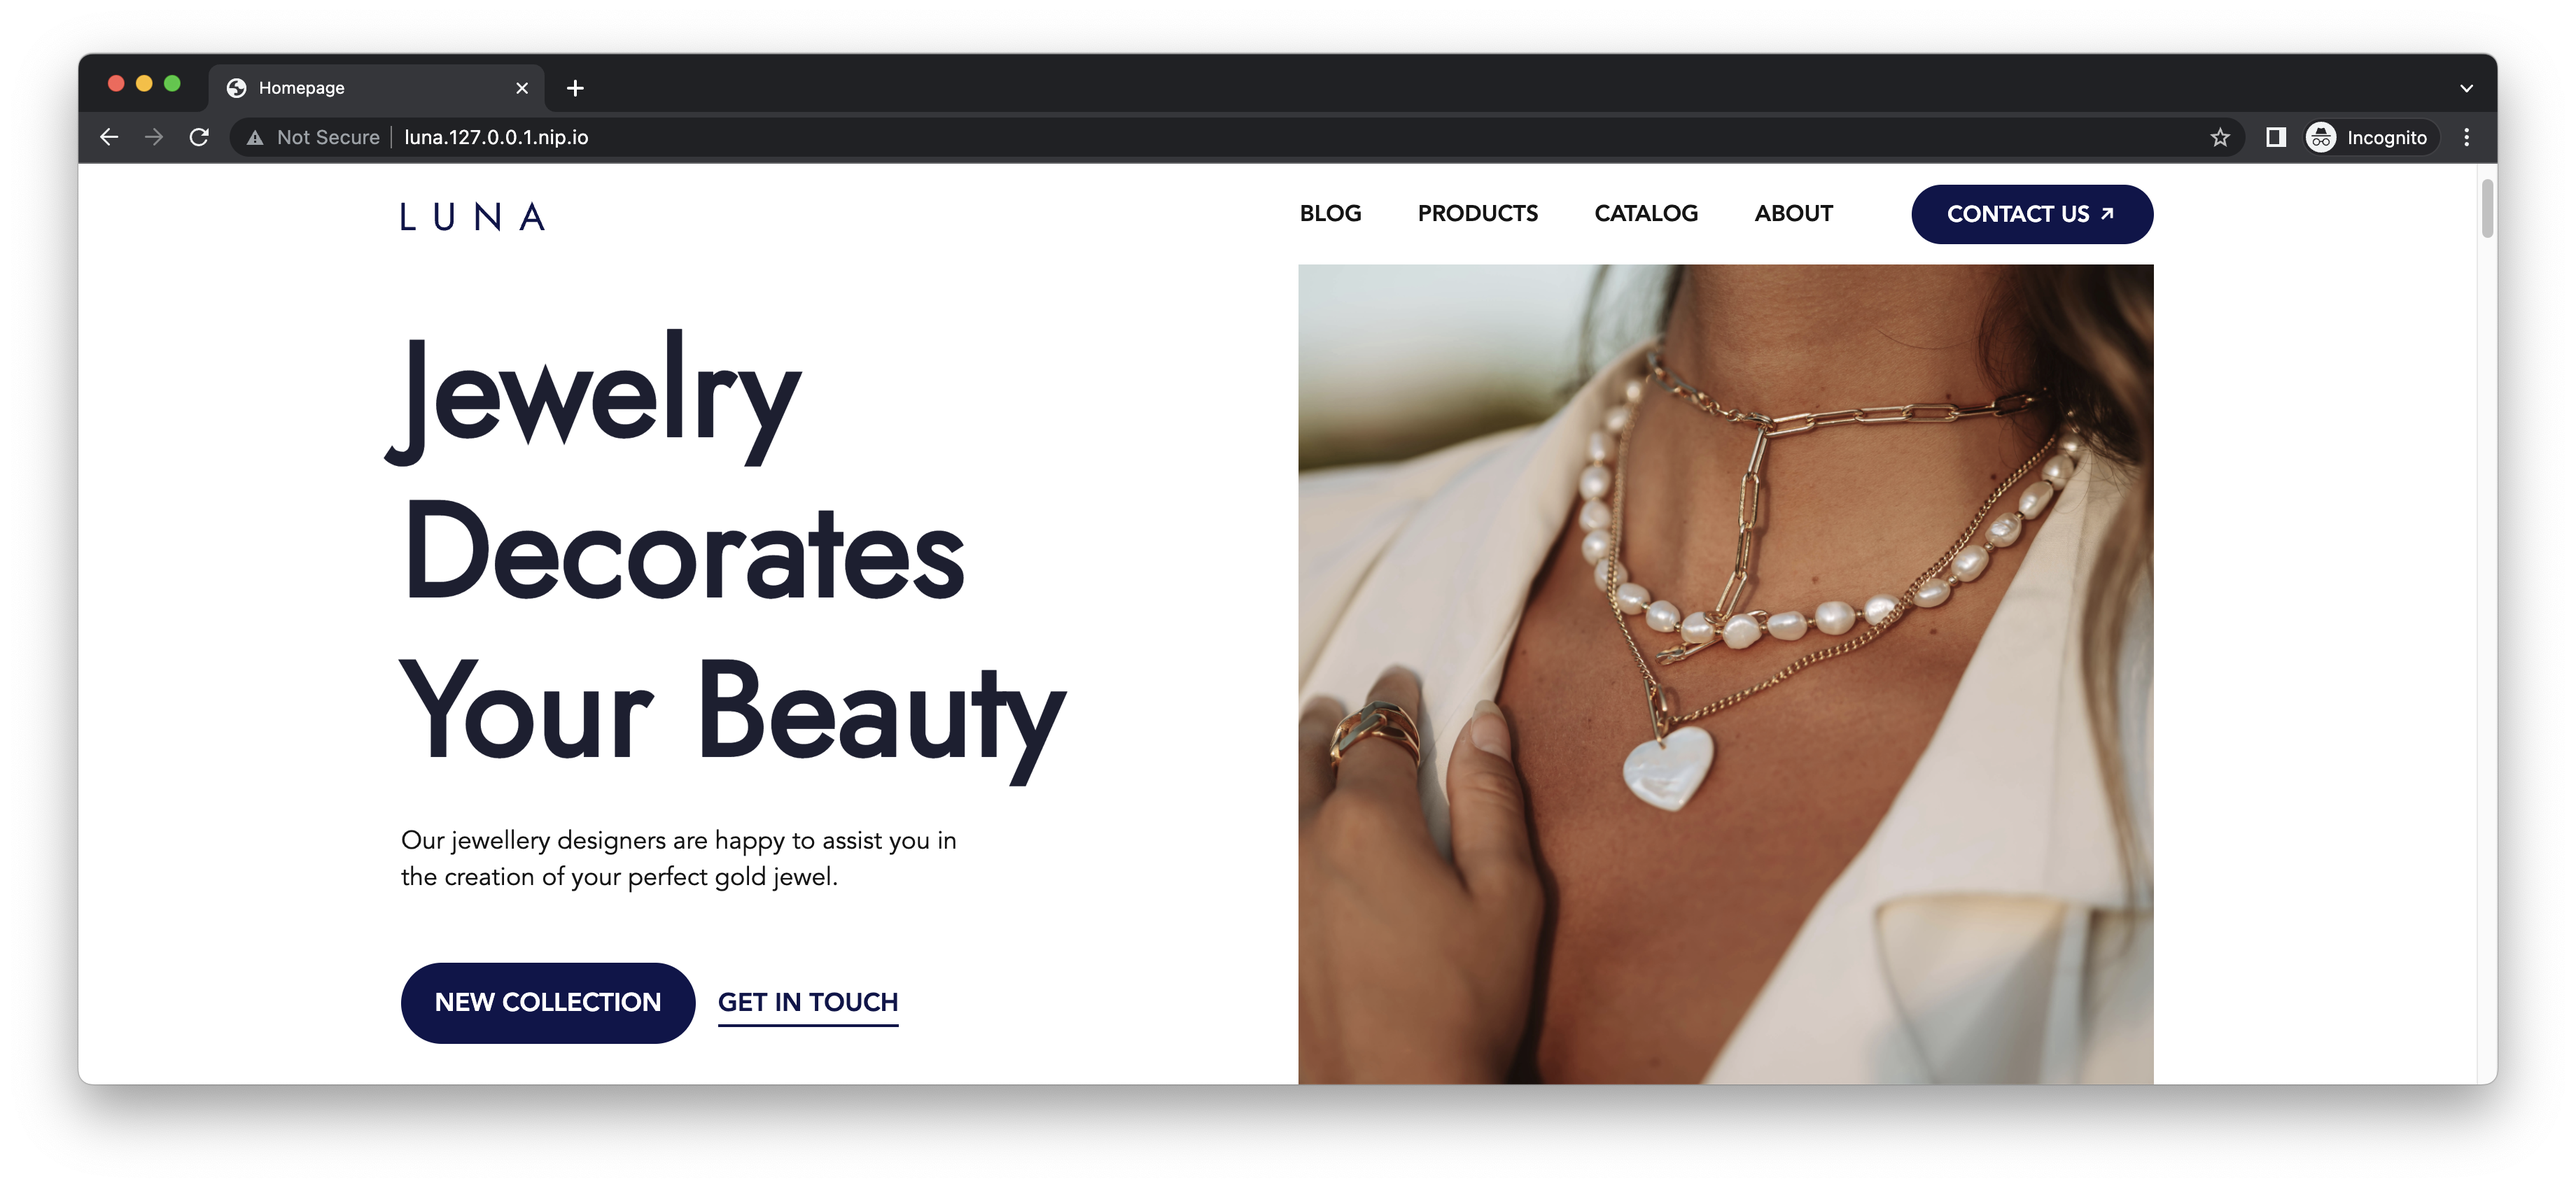
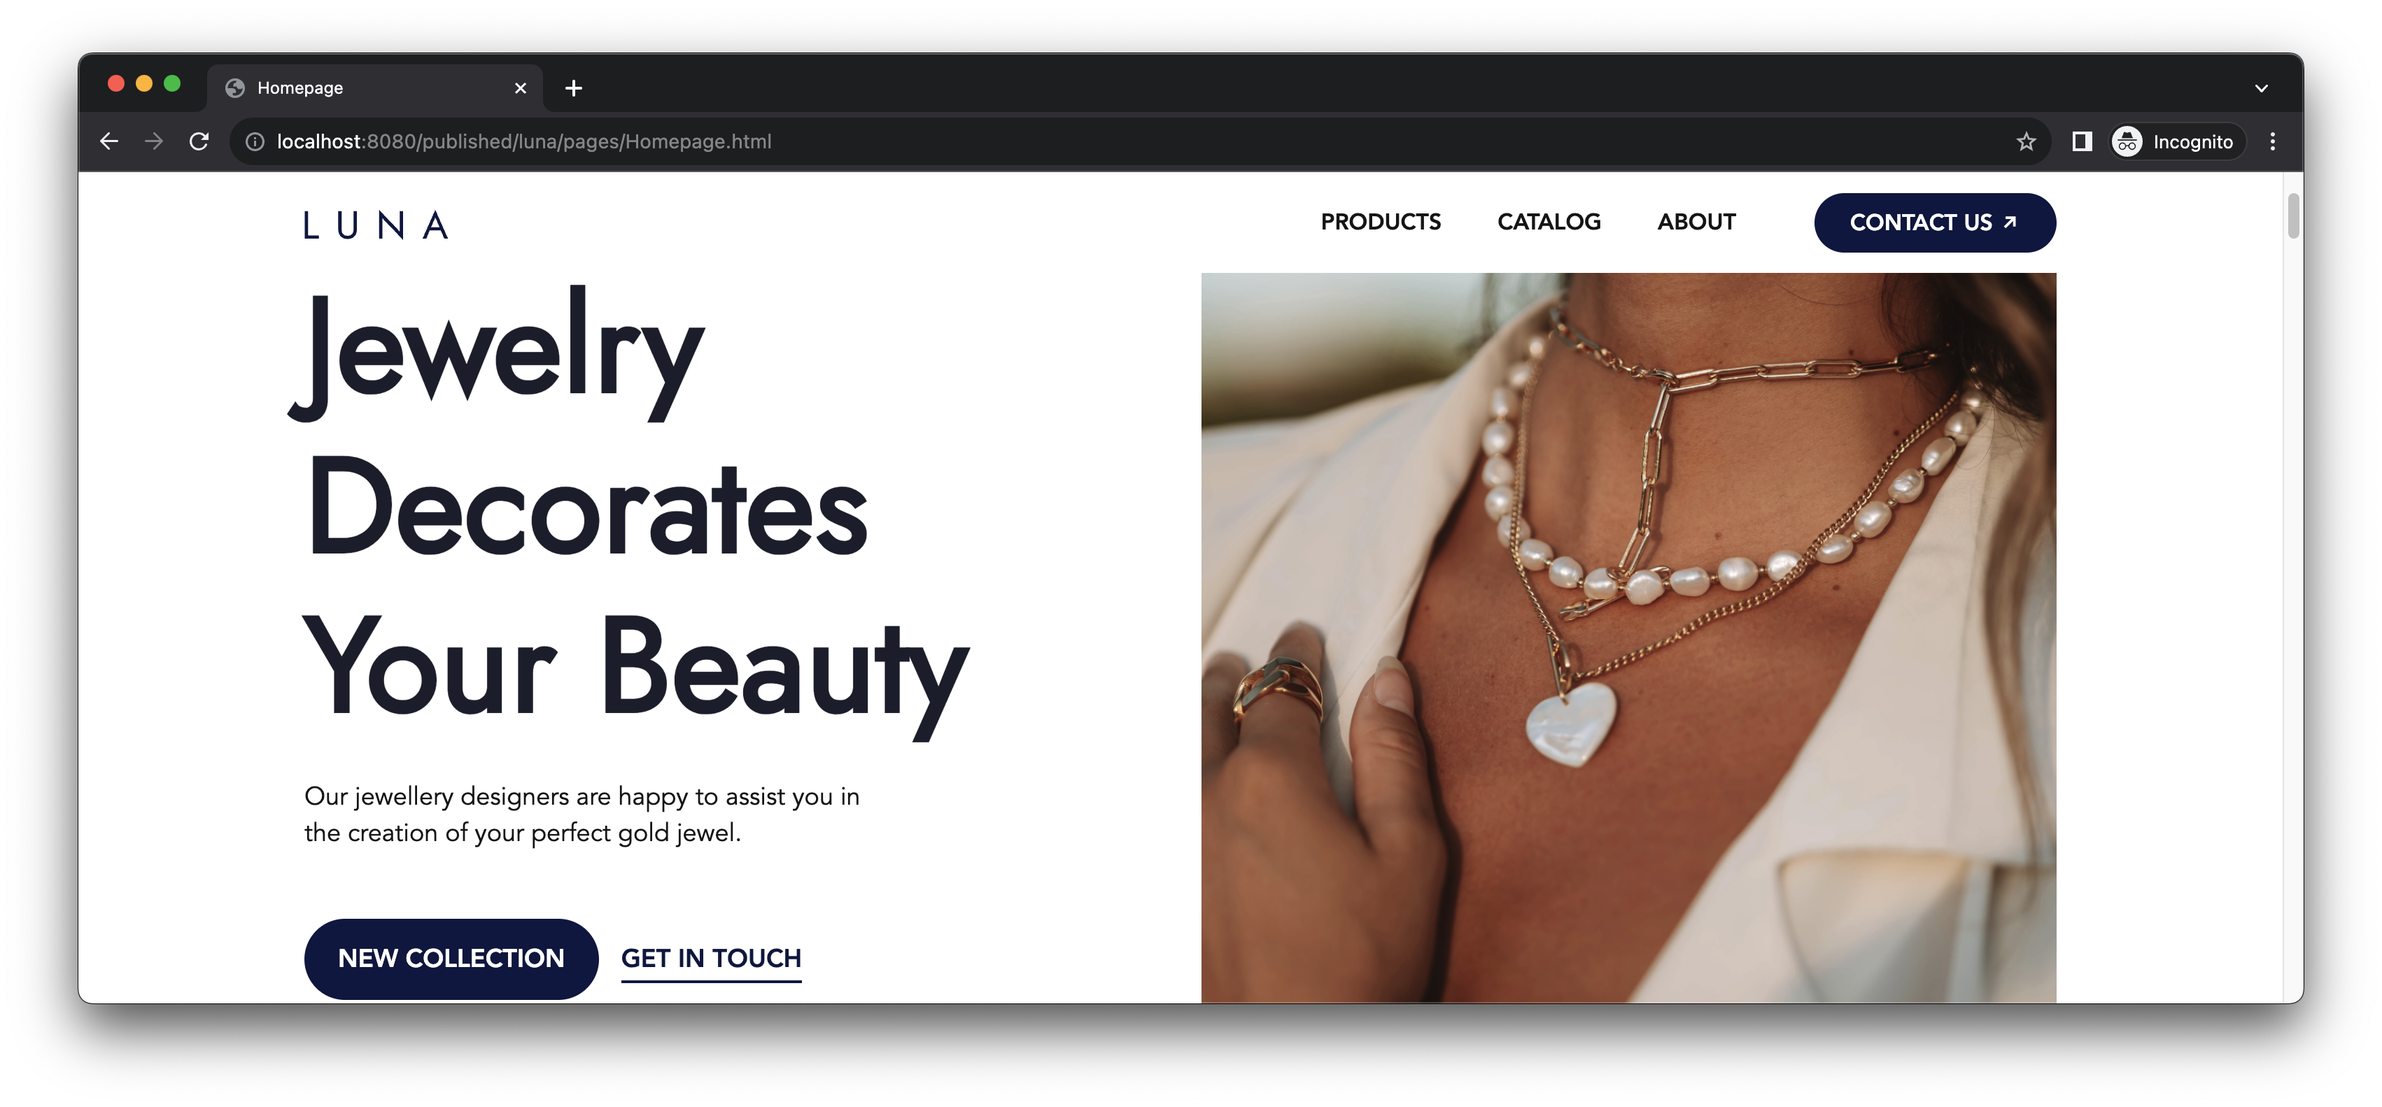
update quick-start with CMS TAR distribution version

diff --git a/docs/cms/quick-start/index.md b/docs/cms/quick-start/index.md
@@ -15,34 +15,23 @@ This guide is a starting-point for developing custom components for WebSight CMS
 
     `curl https://docs.websight.io/scripts/get.sh | sh`
 
-If this method doesn't work for you, following steps 1 and 2 below to set up the Docker instance manually.
+If this method doesn't work for you, follow the step (1) below to set up the WebSight CMS instance manually.
 
-### 1. Create Docker Compose manifest
+### 1. Create Docker container environment
 
-Paste the content below into a text editor and save it as a file on your hard drive. Name the file `docker-compose.yml`.
+Run the following command to start a Docker container with WebSight CMS:
 
-``` yaml title="docker-compose.yml"
-{% include '../../scripts/docker-compose.yml' %}
-```
-
-!!! hint "Tip"
-
-    Default passwords are stored in secret files. You can find details about how to change them [here](https://github.com/websight-io/starter/tree/main/environment#secret-files).
-
-
-### 2. Run the local instance
-
-Open the terminal, navigate to the location where you saved your `docker-compose.yml` file and run the following command:
-
-```
-docker compose up
+```bash
+docker run -p 8080:8080 --name websight-cms-ce --rm \
+  --mount source=tar-repo,target=/websight/repository \
+  europe-docker.pkg.dev/websight-io/public/websight-cms-starter:1.22.0 \
+  websight-cms-starter-tar
 ```
 
 A fresh WebSight instance will start within a couple of seconds. After it launches, you can open a Web browser to the URL [http://localhost:8080/](http://localhost:8080/) to view the WebSight admin panel.
 Log in with `wsadmin` username and `wsadmin` as the password.
 
 !!! hint "Tip"
-  
     To turn off the local environment, use the `ctrl + c` key combination in the terminal that you used to launch your Docker instance. You can restart the instance by repeating the steps you used to launch it initially.
 
 
@@ -72,17 +61,15 @@ Open the list of _Pages_ using the left sidebar. Select all pages and click _Pub
 
 ### 4. View the demo site
 
-Congratulations! The demo site is now available by navigating to [http://luna.127.0.0.1.nip.io/](http://luna.127.0.0.1.nip.io/) in a Web browser.
+Congratulations! The demo site is now available by navigating to [http://localhost:8080/published/luna/pages/Homepage.html](http://localhost:8080/published/luna/pages/Homepage.html) in a Web browser.
 
 !!! info "Additional sample sites "
 
-    The distribution contains other demo sites. We used [nip.io](https://nip.io) to support their preview in a browser (having just one local instance of WebSight CMS). After assets and pages publication, they are available at: 
+    The distribution contains other demo sites. After assets and pages publication, they are available at: 
     
-    - [http://kyanite-personal-template.127.0.0.1.nip.io/](http://kyanite-personal-template.127.0.0.1.nip.io/) Personal page created with the Kyanite components library
-    - [http://luna-low-code.127.0.0.1.nip.io/](http://luna-low-code.127.0.0.1.nip.io/) Luna - low code
-    - [http://luna-no-code.127.0.0.1.nip.io/](http://luna-no-code.127.0.0.1.nip.io/) Luna - no code
-    
-
+    - [http://localhost:8080/published/kyanite/pages/Personal.html](http://localhost:8080/published/kyanite/pages/Personal.html)  Personal page created with the Kyanite components library
+    - [http://localhost:8080/lowcodeluna/pages/Homepage.html](http://localhost:8080/lowcodeluna/pages/Homepage.html)  Luna - low code
+    - [http://localhost:8080/published/nocodeluna/pages/Homepage.html](http://localhost:8080/published/nocodeluna/pages/Homepage.html) Luna - no code
 
 ![Published demo page](./quick-start-published-page.png)
 
@@ -134,7 +121,7 @@ At this point, you've updated the page. However, unpublished changes are not vis
 
 ### 5. View the updated page
 
-Congratulations! Your changes should be visible now at [http://luna.127.0.0.1.nip.io/](http://luna.127.0.0.1.nip.io/). 
+Congratulations! Your changes should be visible now at [http://localhost:8080/published/luna/pages/Homepage.html](http://localhost:8080/published/luna/pages/Homepage.html). 
 
 ![Publish page action](./quick-start-updated-page.png)
 
@@ -148,6 +135,6 @@ This page demonstrated the basics of editing pages with WebSight CMS. As a next 
 
 The _Luna_ site (i.e., _Luna - custom code_) you looked through utilizes the [Howlite](../authors/component-libs/howlite/) components library. However, the distribution contains other demo sites, and we recommend exploring them too. Before you open the following links, visit the [admin panel](http://localhost:8080/), and publish pages and assets for a given space.
 
-- [_Kyanite_ - personal template](http://kyanite-personal-template.127.0.0.1.nip.io/). It is a sample inspired by the [Portfolio page](https://bulmatemplates.github.io/bulma-templates/templates/personal.html). We created it using the [Kyanite components](https://github.com/websight-io/kyanite/).
-- [_Luna - no code_](http://luna-no-code.127.0.0.1.nip.io/). We authored the _Luna_ site with the [Kyanite components](https://github.com/websight-io/kyanite/) without additional custom code or development.
-- [_Luna - low code_](http://luna-low-code.127.0.0.1.nip.io/). We added some custom styling and implemented only components missing in the [Kyanite](https://github.com/websight-io/kyanite/) library.
+- [_Kyanite_ - personal template](http://localhost:8080/published/kyanite/pages/Personal.html). It is a sample inspired by the [Portfolio page](https://bulmatemplates.github.io/bulma-templates/templates/personal.html). We created it using the [Kyanite components](https://github.com/websight-io/kyanite/).
+- [_Luna - no code_](http://localhost:8080/published/nocodeluna/pages/Homepage.html). We authored the _Luna_ site with the [Kyanite components](https://github.com/websight-io/kyanite/) without additional custom code or development.
+- [_Luna - low code_](http://localhost:8080/lowcodeluna/pages/Homepage.html). We added some custom styling and implemented only components missing in the [Kyanite](https://github.com/websight-io/kyanite/) library.
